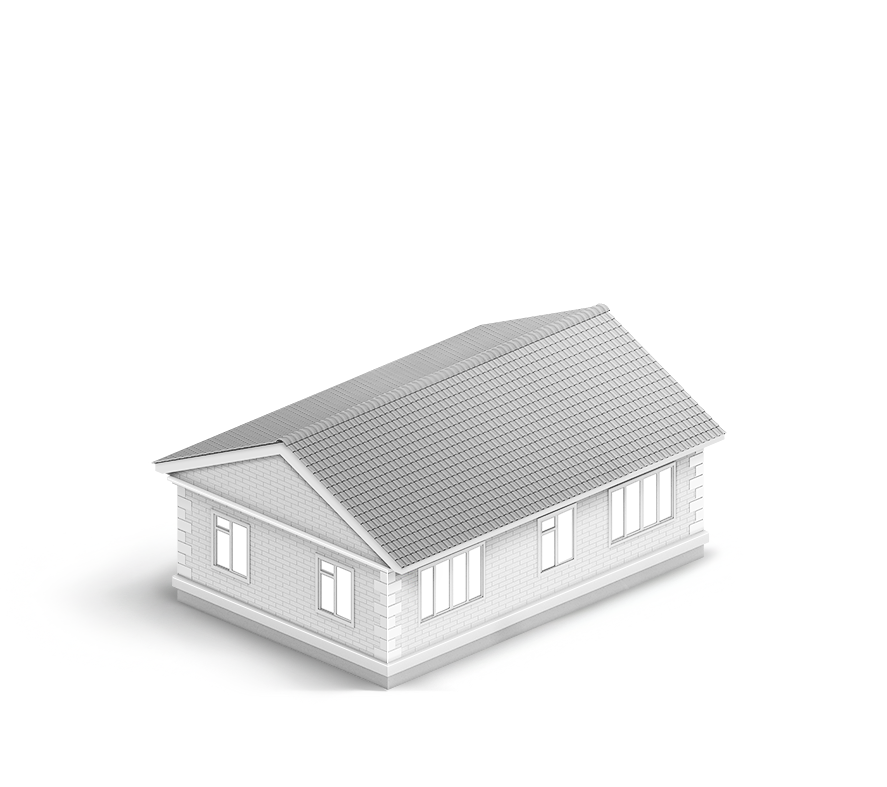
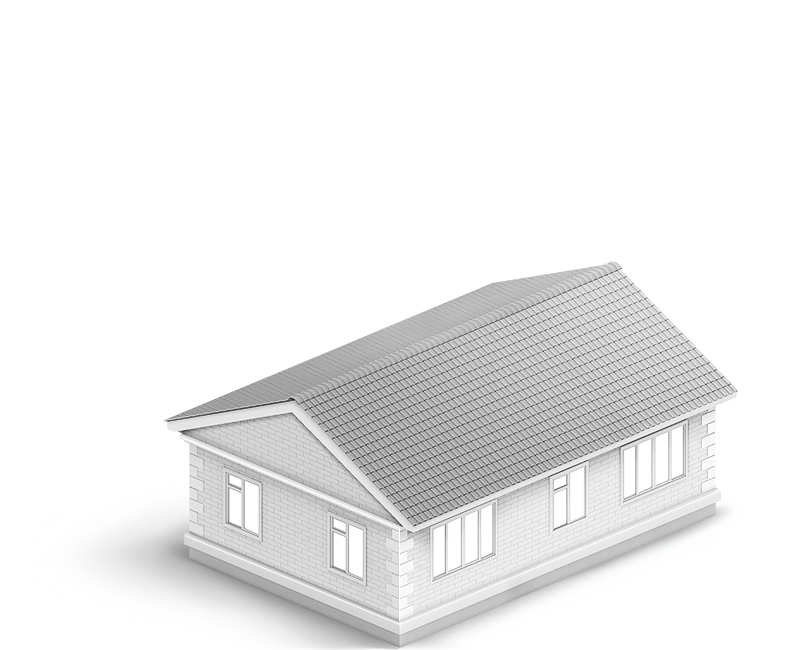
house images layout

Changed region(s): [[0.125, 0.3692, 0.9375, 1.0]]

diff --git a/common/views/cottage_content.htm b/common/views/cottage_content.htm
@@ -5,14 +5,16 @@
         <div class="info">
             Уточните количество этажей и отапливаемых комнат в вашем доме
         </div>
-        <img class="house animate-enter-leave" src="common/img/house/1s.png" alt="" ng-if="SHOW_HOUSE_IMAGE(1, 's', false)" />
-        <img class="house animate-enter-leave" src="common/img/house/1b.png" alt="" ng-if="SHOW_HOUSE_IMAGE(1, 'b', false)" />
-        <img class="house animate-enter-leave" src="common/img/house/2s.png" alt="" ng-if="SHOW_HOUSE_IMAGE(2, 's', false)" />
-        <img class="house animate-enter-leave" src="common/img/house/2b.png" alt="" ng-if="SHOW_HOUSE_IMAGE(2, 'b', false)" />
-        <img class="house animate-enter-leave" src="common/img/house/3s.png" alt="" ng-if="SHOW_HOUSE_IMAGE(3, 's', false)" />
-        <img class="house animate-enter-leave" src="common/img/house/3b.png" alt="" ng-if="SHOW_HOUSE_IMAGE(3, 'b', false)" />
-        <img class="house animate-enter-leave" src="common/img/house/1s_p.png" alt="" ng-if="SHOW_HOUSE_IMAGE(1, 's', true)" />
-        <img class="house animate-enter-leave" src="common/img/house/1b_p.png" alt="" ng-if="SHOW_HOUSE_IMAGE(1, 'b', true)" />
-        <img class="house animate-enter-leave" src="common/img/house/2s_p.png" alt="" ng-if="SHOW_HOUSE_IMAGE(2, 's', true)" />
-        <img class="house animate-enter-leave" src="common/img/house/2b_p.png" alt="" ng-if="SHOW_HOUSE_IMAGE(2, 'b', true)" />
+        <div class="house">
+            <img class="animate-enter-leave" src="common/img/house/1s.png" alt="" ng-if="SHOW_HOUSE_IMAGE(1, 's', false)" />
+            <img class="animate-enter-leave" src="common/img/house/1b.png" alt="" ng-if="SHOW_HOUSE_IMAGE(1, 'b', false)" />
+            <img class="animate-enter-leave" src="common/img/house/2s.png" alt="" ng-if="SHOW_HOUSE_IMAGE(2, 's', false)" />
+            <img class="animate-enter-leave" src="common/img/house/2b.png" alt="" ng-if="SHOW_HOUSE_IMAGE(2, 'b', false)" />
+            <img class="animate-enter-leave" src="common/img/house/3s.png" alt="" ng-if="SHOW_HOUSE_IMAGE(3, 's', false)" />
+            <img class="animate-enter-leave" src="common/img/house/3b.png" alt="" ng-if="SHOW_HOUSE_IMAGE(3, 'b', false)" />
+            <img class="animate-enter-leave" src="common/img/house/1s_p.png" alt="" ng-if="SHOW_HOUSE_IMAGE(1, 's', true)" />
+            <img class="animate-enter-leave" src="common/img/house/1b_p.png" alt="" ng-if="SHOW_HOUSE_IMAGE(1, 'b', true)" />
+            <img class="animate-enter-leave" src="common/img/house/2s_p.png" alt="" ng-if="SHOW_HOUSE_IMAGE(2, 's', true)" />
+            <img class="animate-enter-leave" src="common/img/house/2b_p.png" alt="" ng-if="SHOW_HOUSE_IMAGE(2, 'b', true)" />
+        </div>
     </div>

diff --git a/common/css/default.css b/common/css/default.css
@@ -565,7 +565,6 @@ label.tab-item-add {
 /* Cottage */
 .cottage {
 	height: 100%;
-    overflow: auto;
 	position: relative;
 	background: #FFF url('../img/bg_grid.png');
 }
@@ -620,9 +619,17 @@ label.tab-item-add {
 }*/
 
 .cottage .house {
+    position: relative;
+    width: 800px;
+    height: 650px;
+    margin: 0 auto;
+}
+.cottage .house > img {
     position: absolute;
-    left: 29px;
-    top: 57px;
+    left: 0;
+    top: 0;
+    width: 800px;
+    height: 650px;
 }
 
 .cottage h1,
